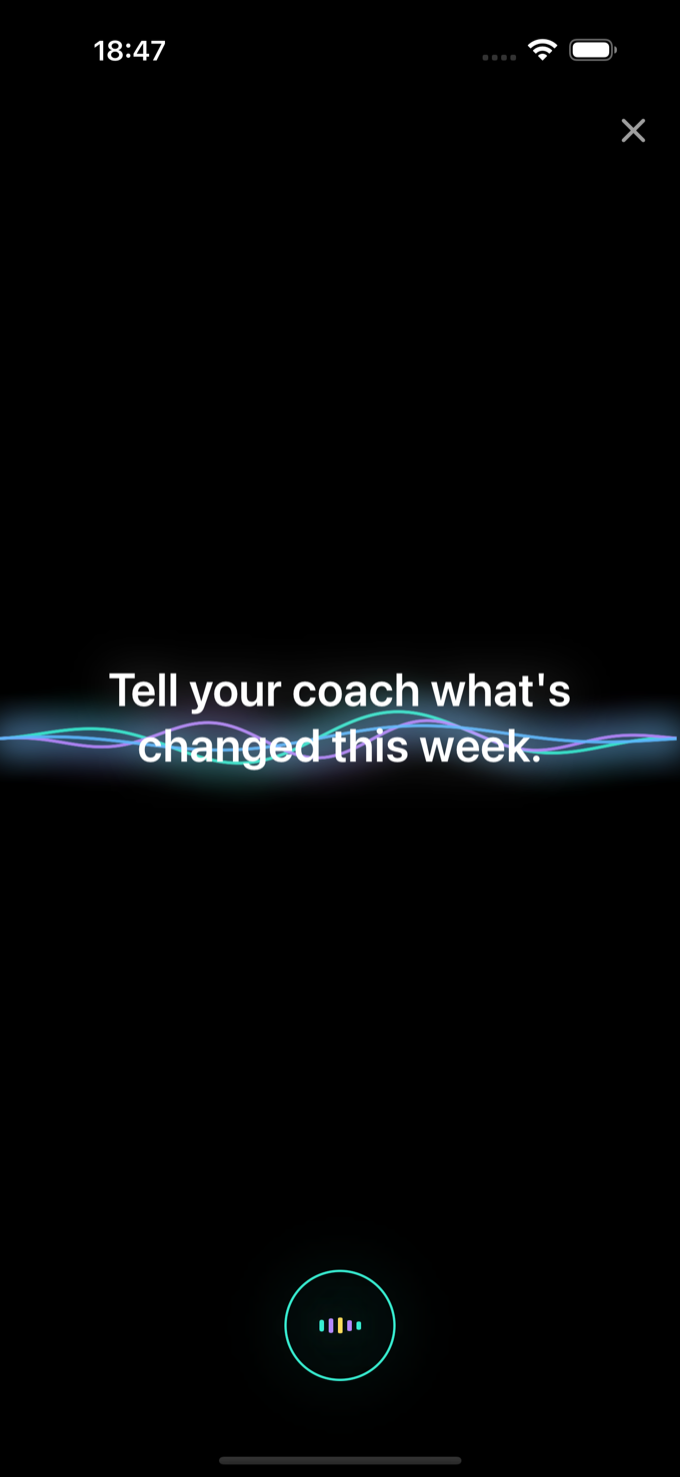
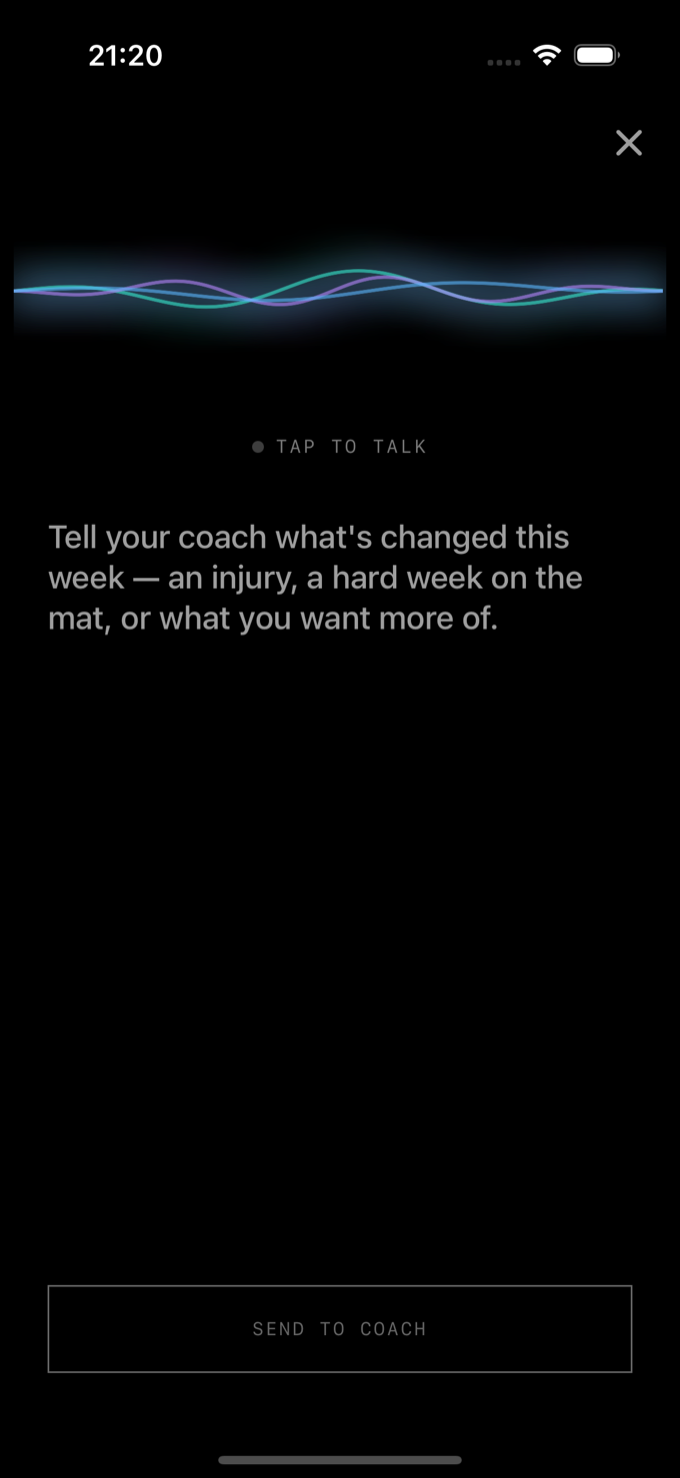
Granite: real populated screenshots via a seeded screenshot rig
Built a Frame-style capture rig into Granite (DEBUG + launch-arg gated,
never in release): -seedDemo seeds a full profile + generated programme +
a week of logged sessions with actuals and PRs; GRANITE_TAB / GRANITE_COACH
route to each screen; start() short-circuits StoreKit + speech prompts.
Case-study shots are now real + populated:
- g-week: the programme the engine builds (real lifts/loads)
- g-coach: the current coach voice check-in (waveform-at-top design)
- g-progress: 12 PRs + records list (replaces the empty 'first PR' shot)
Re-add the on-device Progress figure (Fig 03) with the populated screen.

diff --git a/work-granite.html b/work-granite.html
@@ -188,7 +188,7 @@ body.cursor-on,body.cursor-on a,body.cursor-on button,body.cursor-on summary{cur
       <div class="block reveal"><p class="csintro">Granite is a strength coach that runs entirely on your phone. Not a plan you follow, but an engine that reasons &mdash; building your training around the life you actually train through, rewriting it each week as things change. We built it deterministic and on-device on purpose: your training history never leaves your hands, and every decision it makes can be traced, tested, and trusted.</p></div>
       <div class="block reveal"><h2>A coach, not a plan</h2><p>Most training apps hand you a fixed plan and hope you follow it. Granite works the other way round. It reasons &mdash; taking your goals, your experience, the days you actually have, your injuries, and the load you carry off the platform &mdash; and builds a week that fits your real life. When something changes, it rewrites, and tells you why. Not a plan you obey. A coach that adapts.</p><div class="pfig"><div class="device"><img src="media/shots/g-coach.png" alt="Granite — tell your coach what changed this week" loading="lazy" width="680" height="1478"></div><div class="pcap"><span class="pn">Fig. 01 &middot; Granite &middot; the check-in</span><span class="pd">You tell it what changed this week &mdash; a tweak, a bad night, a niggle &mdash; and the plan reasons around it.</span></div></div></div>
       <div class="block reveal"><h2>The engine is the product</h2><p>The intelligence in Granite is deterministic, not generative &mdash; and that&rsquo;s a deliberate choice, not a limitation. It means every plan is consistent, every decision can be traced, and the whole system can be tested against real coaching principles rather than hoping a black box got it right. Accountable intelligence beats impressive intelligence when it&rsquo;s your body on the line. We built the engine first, and everything else serves it.</p><div class="pfig flip"><div class="device"><img src="media/shots/g-review.png" alt="Granite — the weekly rewrite, explained" loading="lazy" width="680" height="1478"></div><div class="pcap"><span class="pn">Fig. 02 &middot; Granite &middot; the weekly rewrite</span><span class="pd">You missed sessions, so it pulls the week back &mdash; a deload, 40% less volume, loads held &mdash; and traces exactly what changed and why.</span></div></div></div>
-      <div class="block reveal"><h2>On-device by decision</h2><p>Granite runs entirely on your phone. No account, no cloud, no data leaving your hands &mdash; the privacy isn&rsquo;t a policy you have to trust, it&rsquo;s the architecture. Running locally was the harder path, and it made the product sharper: an engine that can&rsquo;t lean on the cloud has to be deliberate about every decision. That constraint is the craft. Granite is the considered version of something most people build the easy way.</p></div>
+      <div class="block reveal"><h2>On-device by decision</h2><p>Granite runs entirely on your phone. No account, no cloud, no data leaving your hands &mdash; the privacy isn&rsquo;t a policy you have to trust, it&rsquo;s the architecture. Running locally was the harder path, and it made the product sharper: an engine that can&rsquo;t lean on the cloud has to be deliberate about every decision. That constraint is the craft. Granite is the considered version of something most people build the easy way.</p><div class="pfig"><div class="device"><img src="media/shots/g-progress.png" alt="Granite — progress and personal records, tracked on-device" loading="lazy" width="680" height="1478"></div><div class="pcap"><span class="pn">Fig. 03 &middot; Granite &middot; progress</span><span class="pd">Every session, every PR and every trend lives on the phone &mdash; no account, no cloud, nothing leaving your hands.</span></div></div></div>
       <div class="decide reveal">
         <span class="dlabel">The ledger &middot; kept / cut</span>
         <div class="dl">The product is the decisions we refused to skip.</div>
